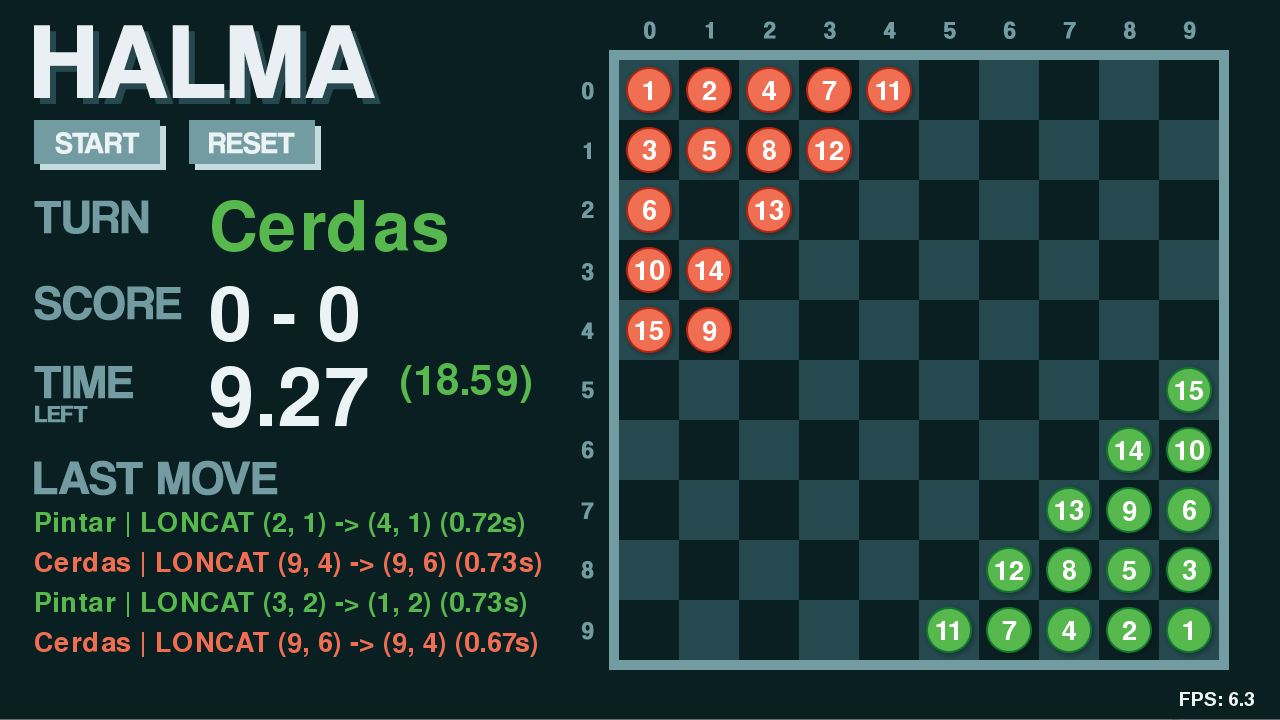
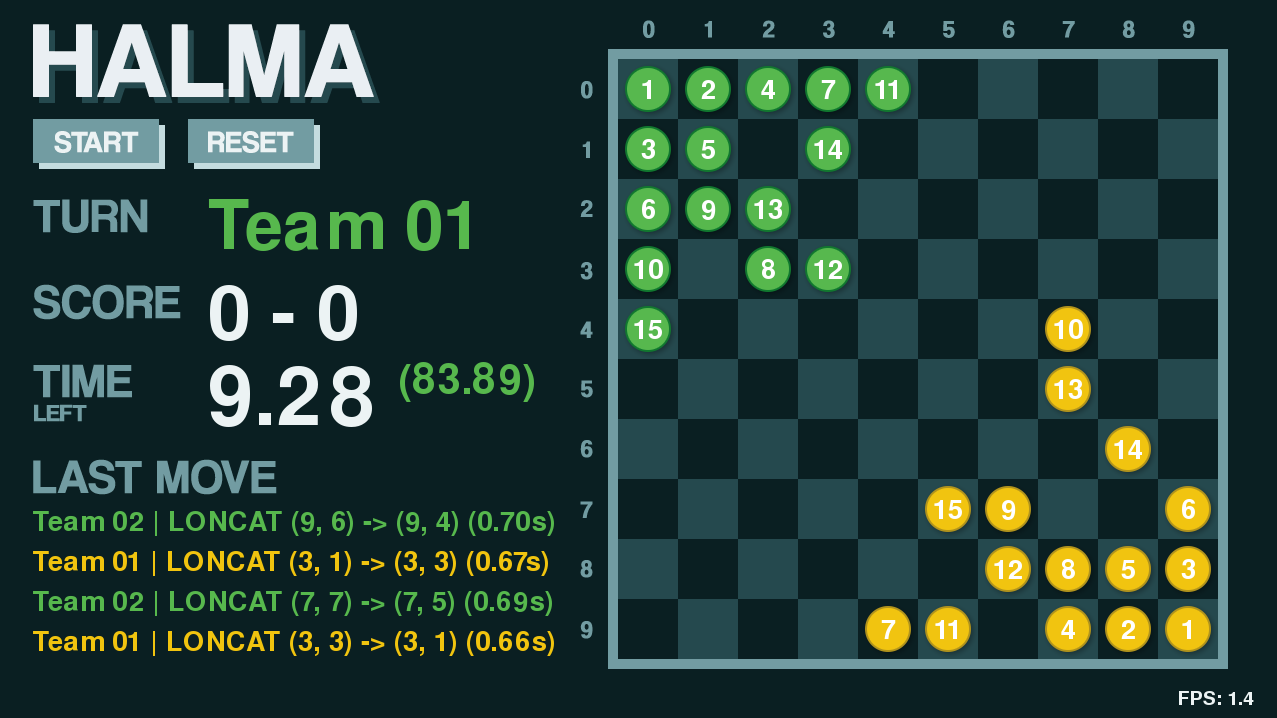
Updated README.md

diff --git a/README.md b/README.md
@@ -10,6 +10,18 @@ Tested on pygame 1.9.6 (Python 3.7.6)
 
 Font: Coolvetica (https://www.dafont.com/coolvetica.font)
 
+## Feature
+- Game configuration screen with board piece animation
+- 8x8 and 10x10 board size (8x8 currently not supported by game model)
+- Beautiful Light Mode and Dark Mode 
+- AI vs AI team picker with customizable color
+- Informative team name, move history, and move-time left
+
+## To be developed
+- Human Player (Human vs AI) or even Human vs Human?
+- Debug/Strategy mode built for AI development
+- Multiprocessing/Multithreading GUI element and AI computation to be parallel (continuous timer)
+
 ## Screenshot
 Light Mode Starting Screen
 ![Starting Light Mode](assets/screenshot/starting.png?raw=True)
